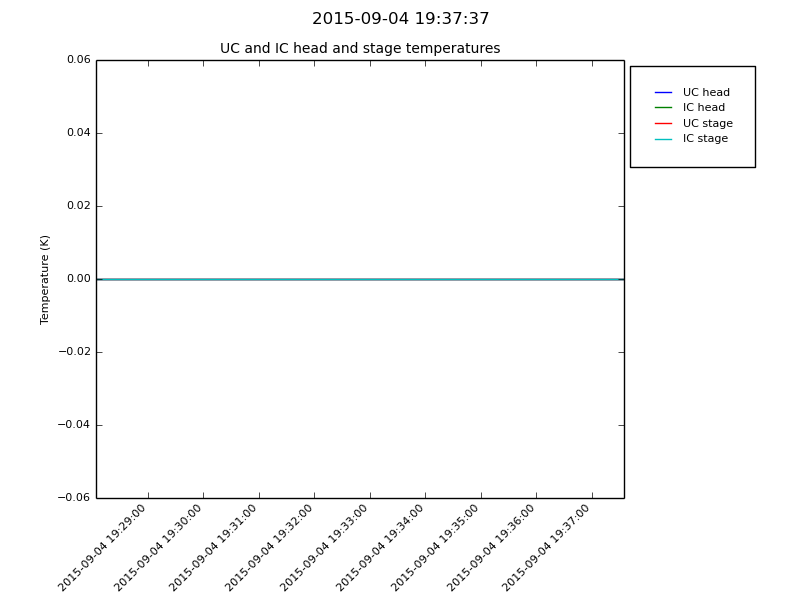
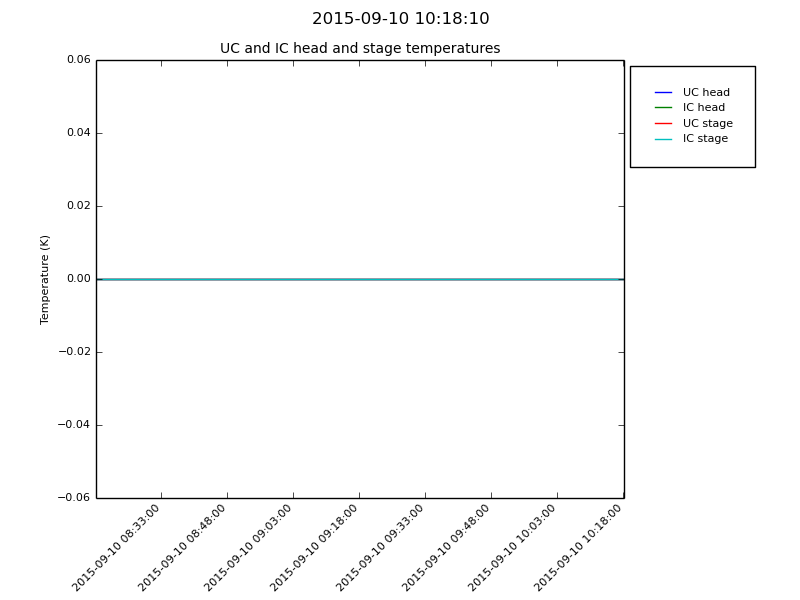
Update and plotter and logger to use PyTables data format. Make it so that column headings can be declared in fridge_logger.py and dynamically updated in the rest of the code.

diff --git a/plotter/summary_plotter.py b/plotter/summary_plotter.py
@@ -10,95 +10,89 @@
 
 import matplotlib as mpl
 import matplotlib.pyplot as plt
+import matplotlib.dates as mdates
 import tables
 import numpy as np
+import time
+import datetime
+
+ts = time.time()
+st = datetime.datetime.fromtimestamp(ts).strftime('%Y-%m-%d %H:%M:%S')
 
 # open pytables file with data
 data_file = tables.open_file('run1data.h5')
 table_LS_218_1 = data_file.get_node('/data/LS_218_1')
+table_LS_218_2 = data_file.get_node('/data/LS_218_2')
+table_LS_350 = data_file.get_node('/data/LS_350')
 
 # extract data from table
-maxtime = [row['record_time'] for row in table_LS_218_1.iterrows(start=table_LS_218_1.nrows-1, stop=table_LS_218_1.nrows)]
-chan0 = np.array([x['chan0'] for x in table_LS_218_1.iterrows() if x['record_time']>(maxtime[0]-600)])
+maxtime = [row['record time'] for row in table_LS_218_1.iterrows(start=table_LS_218_1.nrows-1, stop=table_LS_218_1.nrows)]
+time_1 = np.array([x['record time'] for x in table_LS_218_1.iterrows() if x['record time']>(maxtime[0]-600)])
+data_LS_218_1 = dict()
+for col in table_LS_218_1.colnames:
+    coldata = np.array([x[col] for x in table_LS_218_1.iterrows() if x['record time']>(maxtime[0]-600)])
+    data_LS_218_1[col] = coldata
+
+time_2 = np.array([x['record time'] for x in table_LS_218_2.iterrows() if x['record time']>(maxtime[0]-600)])
+data_LS_218_2 = dict()
+for col in table_LS_218_2.colnames:
+    coldata = np.array([x[col] for x in table_LS_218_2.iterrows() if x['record time']>(maxtime[0]-600)])
+    data_LS_218_2[col] = coldata
+
+time_350 = np.array([x['record time'] for x in table_LS_350.iterrows() if x['record time']>(maxtime[0]-600)])
+data_LS_350 = dict()
+for col in table_LS_350.colnames:
+    coldata = np.array([x[col] for x in table_LS_350.iterrows() if x['record time']>(maxtime[0]-600)])
+    data_LS_350[col] = coldata
+
+# should add some kind of "smart" partitioning of data between plots here,
+# to avoid hardcoding...
 
 
-# # do the plotting
-# #  Set labelsizes
-# matplotlib.rc('xtick', labelsize=8)
-# matplotlib.rc('ytick', labelsize=8)
-#
-# plt.figure(1,figsize=(7,10))
-# #  Plot PTC stage 2
-# ax1 = plt.subplot(611)
-# plt.title("Pumps and Switches", fontsize=10)
-# plt.plot(data00[0],data00[3],label='4He IC Pump')
-# plt.plot(data00[0],data00[4],label='3He IC Pump')
-# plt.plot(data00[0],data00[5],label='3He UC Pump')
-# plt.plot(data00[0],data00[6],label='4He IC Switch')
-# plt.plot(data00[0],data00[7],label='3He IC Switch')
-# plt.plot(data00[0],data00[8],label='3He UC Switch')
-# plt.ylabel('Temperature (K)',fontsize=10)
-# plt.xlabel('Last 2 Hours')
-# plt.legend(loc="upper left", prop={'size':7}, bbox_to_anchor=[1.0,1.0], borderpad=.2)
-#
-#
-# #  Plot PTC stage 1
-# ax2 = plt.subplot(612,sharex=ax1)
-# plt.title("Heat Exchanger and Mainplate", fontsize=10)
-# plt.ylabel('Tempaterature (K)',fontsize=10)
-# plt.plot(data00[0],data00[1],label='HEX')
-# plt.plot(data00[0],data00[2],label='Mainplate')
-#
-# plt.legend(loc="upper left", prop={'size':8}, bbox_to_anchor=[1.0,1.0], borderpad=.2)
-#
-#
-#
-# #  Plot PTC stage 1
-# ax3 = plt.subplot(613,sharex=ax1)
-# plt.title("4K State", fontsize=10)
-# plt.ylabel('Temperature (K)',fontsize=10)
-# plt.plot(data01[0],data01[1])
-#
-# #  Plot PTC stage 2
-# ax4 = plt.subplot(614,sharex=ax1)
-# plt.plot(data01[0],data01[2])
-# plt.title("60K Stage", fontsize=10)
-# plt.ylabel('Temperature (K)',fontsize=10)
-# plt.xlabel('Last 2 Hours')
-#
-# #  Plot the three diodes on the coldload (side, center, blackbody)
-# ax5 = plt.subplot(615,sharex=ax1)
-# plt.plot(data01[0],data01[3], label="side")
-# plt.plot(data01[0],data01[4], label="center")
-# plt.plot(data01[0],data01[5], label="blackbody")
-# plt.title("Cold Load", fontsize=10)
-# plt.ylabel('Temperature (K)', fontsize=10)
-# plt.xlabel('Last 2 Hours')
-# #  Define legend for the coldload plot
-# plt.legend(loc="upper left", prop={'size':8}, bbox_to_anchor=[1.0,1.0], borderpad=0.1)
-#
-# ax6 = plt.subplot(616,sharex=ax1)
-# plt.title("Head and Stage", fontsize=10)
-# plt.plot(data02[0],data02[1],label='UC Head')
-# plt.plot(data02[0],data02[2],label='IC Head')
-# plt.plot(data02[0],data02[3],label='UC Stage')
-# plt.plot(data02[0],data02[4],label='IC Stage')
-# plt.ylabel('Temperature (K)',fontsize=10)
-# plt.xlabel('Last 2 Hours')
-# plt.legend(loc="upper left", prop={'size':7}, bbox_to_anchor=[1.0,1.0], borderpad=.2)
-#
-#
-# #  Adjust the size of the plot areas
-# subplots_adjust(left=0.10, bottom=0.10, right=0.83, top=0.92, wspace=0.21, hspace=0.27)
-#
-# #  Setup the date format that will be shown on plot
-# plt.gca().xaxis.set_major_formatter(mdates.DateFormatter('%Y-%m-%d %H:%M'))
-# plt.gca().xaxis.set_major_locator(mdates.MinuteLocator(interval=20))
-# plt.gcf().autofmt_xdate(rotation=45)
-#
-# plt.suptitle(st,fontsize=12)
-#
-#
-#
-# #plt.show()
-# plt.savefig('testplots.png')
+# do the plotting
+#  Set labelsizes
+mpl.rc('xtick', labelsize=8)
+mpl.rc('ytick', labelsize=8)
+
+plt.figure(1,figsize=(7,10))
+#  Plot PTC stage 2
+ax1 = plt.subplot(611)
+plt.title("Pumps and Switches", fontsize=10)
+for col in table_LS_218_1.colnames:
+    if 'Pump' in col or 'Switch' in col:
+        plt.plot(time_1, data_LS_218_1[col], label=col)
+plt.ylabel('Temperature [K]',fontsize=10)
+plt.xlabel('Time')
+plt.legend(loc="upper left", prop={'size':7}, bbox_to_anchor=[1.0,1.0], borderpad=.2)
+
+#  Plot PTC stage 1
+ax2 = plt.subplot(612,sharex=ax1)
+plt.title("Heat Exchanger and Mainplate", fontsize=10)
+plt.ylabel('Temperature [K]',fontsize=10)
+plt.plot(time_1, data_LS_218_1['HEX'], label='HEX')
+plt.plot(time_1, data_LS_218_1['mainplate'], label='mainplate')
+plt.legend(loc="upper left", prop={'size':8}, bbox_to_anchor=[1.0,1.0], borderpad=.2)
+
+ax6 = plt.subplot(616,sharex=ax1)
+plt.title("Head and Stage", fontsize=10)
+for col in table_LS_350.colnames:
+    plt.plot(time_350, data_LS_350[col], label=col)
+plt.ylabel('Temperature [K]',fontsize=10)
+plt.xlabel('Time')
+plt.legend(loc="upper left", prop={'size':7}, bbox_to_anchor=[1.0,1.0], borderpad=.2)
+
+
+#  Adjust the size of the plot areas
+plt.subplots_adjust(left=0.10, bottom=0.10, right=0.83, top=0.92, wspace=0.21, hspace=0.27)
+
+#  Setup the date format that will be shown on plot
+plt.gca().xaxis.set_major_formatter(mdates.DateFormatter('%Y-%m-%d %H:%M'))
+plt.gca().xaxis.set_major_locator(mdates.MinuteLocator(interval=20))
+plt.gcf().autofmt_xdate(rotation=45)
+
+plt.suptitle(st,fontsize=12)
+
+
+
+#plt.show()
+plt.savefig('testplots.png')

diff --git a/logger/fridge_logger.py b/logger/fridge_logger.py
@@ -17,6 +17,34 @@ import tables
 import lakeshore218
 import lakeshore350
 
+# channel labels
+labels_lakeshore_218_1 = {'record time': tables.Time32Col(),
+                          'HEX': tables.Float32Col(),
+                          'mainplate': tables.Float32Col(),
+                          'He4 IC Pump': tables.Float32Col(),
+                          'He4 IC Pump': tables.Float32Col(),
+                          'He4 UC Pump': tables.Float32Col(),
+                          'He4 IC Switch': tables.Float32Col(),
+                          'He3 IC Switch': tables.Float32Col(),
+                          'He3 Uc Switch': tables.Float32Col(),
+                          }
+labels_lakeshore_218_2 = {'record time': tables.Time32Col(),
+                          'channel 0': tables.Float32Col(),
+                          'channel 1': tables.Float32Col(),
+                          'channel 2': tables.Float32Col(),
+                          'channel 3': tables.Float32Col(),
+                          'channel 4': tables.Float32Col(),
+                          'channel 5': tables.Float32Col(),
+                          'channel 6': tables.Float32Col(),
+                          'channel 7': tables.Float32Col(),
+                          }
+labels_lakeshore_350 = {'record time': tables.Time32Col(),
+                        'UC Head': tables.Float32Col(),
+                        'IC Head': tables.Float32Col(),
+                        'UC Stage': tables.Float32Col(),
+                        'IC Stage': tables.Float32Col(),
+                        }
+
 # update frequency
 dt_update = 10  # sec
 
@@ -25,9 +53,9 @@ dt_update = 10  # sec
 # f_text_2 = open('r01.txt', 'a')
 f_h5 = tables.open_file('fridge_data.h5', mode='w', title='fridge data')
 group_all_data = f_h5.create_group('/', 'data', 'all data')
-table_lakeshore_218_1 = f_h5.create_table(group_all_data, 'LS_218_1', lakeshore218.record, "Data from Lakeshore 218 #1")
-table_lakeshore_218_2 = f_h5.create_table(group_all_data, 'LS_218_2', lakeshore218.record, "Data from Lakeshore 218 #2")
-table_lakeshore_350 = f_h5.create_table(group_all_data, 'LS_350', lakeshore350.record, "Data from Lakeshore 350")
+table_lakeshore_218_1 = f_h5.create_table(group_all_data, 'LS_218_1', labels_lakeshore_218_1, "Data from Lakeshore 218 #1")
+table_lakeshore_218_2 = f_h5.create_table(group_all_data, 'LS_218_2', labels_lakeshore_218_2, "Data from Lakeshore 218 #2")
+table_lakeshore_350 = f_h5.create_table(group_all_data, 'LS_350', labels_lakeshore_350, "Data from Lakeshore 350")
 
 # set up serial ports
 lakeshore_218_1 = serial.Serial('/dev/ttyr00', 9600, serial.SEVENBITS, serial.PARITY_ODD, serial.STOPBITS_ONE )
@@ -70,11 +98,11 @@ try:
         # f_text_2.write(time_string + out_lakeshore_218_2)
 
         # write the data to a pytables file for more modern storage
-        lakeshore218.write(table_lakeshore_218_1.row, out_lakeshore_218_1)
+        lakeshore218.write(table_lakeshore_218_1.row, labels_lakeshore_218_1, out_lakeshore_218_1)
         table_lakeshore_218_1.flush()
-        lakeshore218.write(table_lakeshore_218_2.row, out_lakeshore_218_2)
+        lakeshore218.write(table_lakeshore_218_2.row, labels_lakeshore_218_2, out_lakeshore_218_2)
         table_lakeshore_218_2.flush()
-        lakeshore350.write(table_lakeshore_350.row, out_lakeshore_350)
+        lakeshore350.write(table_lakeshore_350.row, labels_lakeshore_350, out_lakeshore_350)
         table_lakeshore_350.flush()
 
         # wait before reading again

diff --git a/logger/lakeshore218.py b/logger/lakeshore218.py
@@ -10,27 +10,20 @@
 import tables
 import time
 
-class record(tables.IsDescription):
-    record_time = tables.Time32Col()
-    chan0 = tables.Float32Col()
-    chan1 = tables.Float32Col()
-    chan2 = tables.Float32Col()
-    chan3 = tables.Float32Col()
-    chan4 = tables.Float32Col()
-    chan5 = tables.Float32Col()
-    chan6 = tables.Float32Col()
-    chan7 = tables.Float32Col()
-
-def write(record, data_str):
+def write(row, col_dict, data_str):
     data_list_str = data_str.rstrip('\r\n').split(',')
     data_list = [float(data_str) for data_str in data_list_str]   # convert to floats
 
+    # extract the column labels
+    labels = col_dict.keys()
+    print labels
+
     # write time info
-    record['record_time'] = time.time()
+    row['record time'] = time.time()
 
     # write channel info
     for jChan in range(len(data_list)):
-        record['chan' + str(jChan)] = data_list[jChan]
+        row[labels[jChan]] = data_list[jChan]
 
     # append to the table
-    record.append()
+    row.append()

diff --git a/logger/lakeshore350.py b/logger/lakeshore350.py
@@ -10,23 +10,19 @@
 import tables
 import time
 
-class record(tables.IsDescription):
-    record_time = tables.Time32Col()
-    chan0 = tables.Float32Col()
-    chan1 = tables.Float32Col()
-    chan2 = tables.Float32Col()
-    chan3 = tables.Float32Col()
-
-def write(record, data_str):
+def write(row, col_dict, data_str):
     data_list_str = data_str.rstrip('\r\n').split(',')
     data_list = [float(data_str) for data_str in data_list_str]   # convert to floats
 
+    # extract the column labels
+    labels = col_dict.keys()
+
     # write time info
-    record['record_time'] = time.time()
+    row['record time'] = time.time()
 
     # write channel info
     for jChan in range(len(data_list)):
-        record['chan' + str(jChan)] = data_list[jChan]
+        row[labels[jChan]] = data_list[jChan]
 
     # append to the table
-    record.append()
+    row.append()
